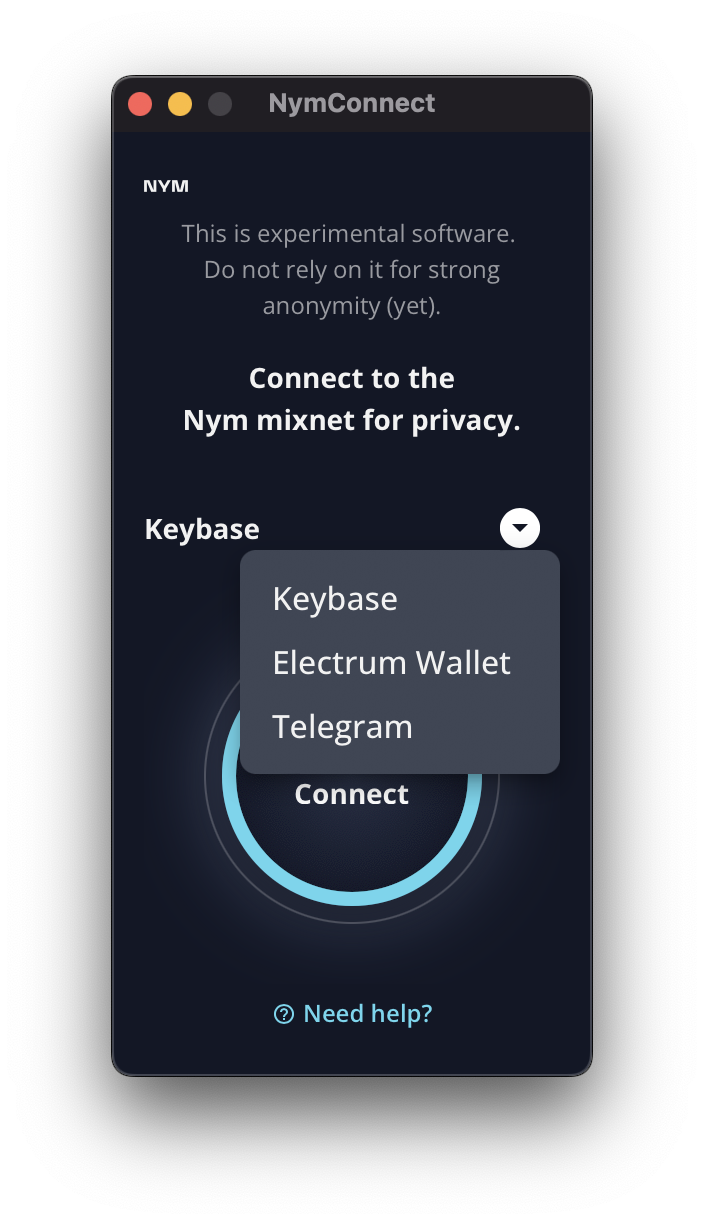
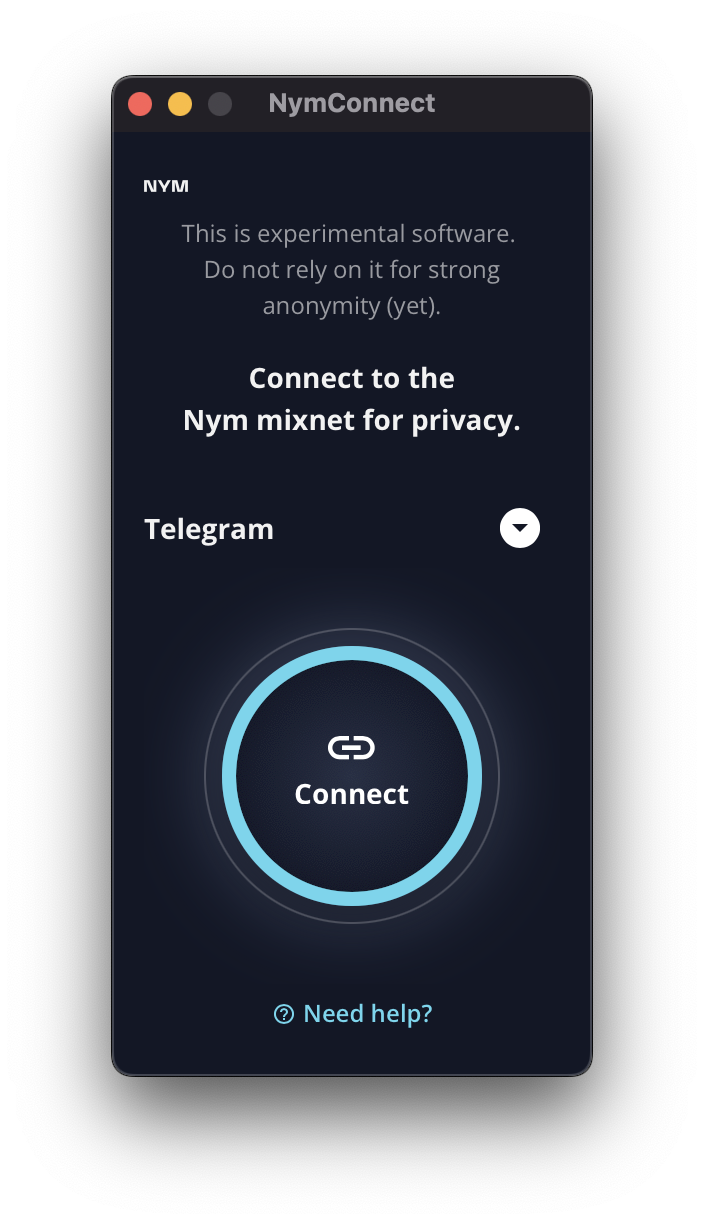
docs(quickstart): update quickstart guides

Changed region(s): [[0.1875, 0.4036, 0.8125, 0.652]]

diff --git a/versioned_docs/version-stable/quickstart/nym-connect.md b/versioned_docs/version-stable/quickstart/nym-connect.md
@@ -4,19 +4,92 @@ description: "Nym is a blockchain-based privacy platform. It provides strong net
 hide_title: false
 ---
 
+import useBaseUrl from '@docusaurus/useBaseUrl';
+import ThemedImage from '@theme/ThemedImage';
+
 # Nym Connect
 
-Follow this guide to install and run Nym connect.
+Nym Connect app lets you send traffic through Nym mixnet for supported applications.
 
-### Step 1. Download
+You can download it for Mac, Windows or Linux PCs.
 
-Get the latest release of nym connect app [here](https://github.com/nymtech/nym/releases/tag/nym-connect-v1.0.2).
+[Download Nym Connect](https://github.com/nymtech/nym/releases/tag/nym-connect-v1.0.2)
 
-:::note
-Nym connect build for linux currently supports only **debian**. If you wish to run on another distro that is not debian, you'll need to build from source. To build from source, you'll also need a [Developer ID Application](https://developer.apple.com/support/developer-id/).
+### Bypassing security warnings
+
+On Windows you will see a security warning pop up when you attempt to run Nym connect. We are in the process of getting app store keys from Microsoft so that this doesn't happen. See the section below for details on steps to bypass these.
+
+#### Linux
+
+You will need to `chmod +x` the AppImage in the terminal (or give it execute permission in your file browser) before it will run.
+
+#### Mac OS
+
+After downloading, double click or drag to your applications directory and right click to select open.
+
+<ThemedImage
+alt=""
+sources={{
+    light: useBaseUrl('/img/docs/nym-mac-install-drag.png'),
+    dark: useBaseUrl('/img/docs/nym-mac-install-drag.png'),
+  }}
+/>
+
+Drag Nym Connect to your applications icons then on your iFinder, search and open Nym Connect. You might run into this error just click Open to continue.
+
+<ThemedImage
+alt=""
+sources={{
+    light: useBaseUrl('/img/docs/nym-mac-warning.png'),
+    dark: useBaseUrl('/img/docs/nym-mac-warning.png'),
+  }}
+/>
+
+<ThemedImage
+alt=""
+sources={{
+    light: useBaseUrl('/img/docs/nym-connect-app.png'),
+    dark: useBaseUrl('/img/docs/nym-connect-app.png'),
+  }}
+/>
+
+Select any of the supported services and hit the big connect button to start the proxy. Once you've done this, you can go to the application and add your proxy address to start using the application and pushing traffic through Nym mixnet.
+
+![Nym connect app](/img/docs/keybase-demo.gif)
+
+### Building from source
+
+:::info
+Please note that Nym Connect has currently only been built on the operating systems for Mac OS, Debian and Windows. If you find an issue or any additional prerequisties, please create an issue or PR against `develop` on [Github](https://github.com/nymtech/docs).
 :::
 
-#### Building from source
+### Software prerequisites for building Nym Connect
+
+- `git`
+
+```
+sudo apt update
+sudo apt install git
+```
+
+Verify `git` is installed with:
+
+```
+git version
+# Should return: git version X.Y.Z
+```
+
+- [Yarn](https://yarnpkg.com/)
+
+- `NodeJS >= v16.8.0`
+
+- `Rust & cargo >= v1.56`
+
+We recommend using the [Rust shell script installer](https://www.rust-lang.org/tools/install). Installing cargo from your package manager (e.g. `apt`) is not recommended as the packaged versions are usually too old.
+
+If you really don't want to use the shell script installer, the [Rust installation docs](https://forge.rust-lang.org/infra/other-installation-methods.html) contain instructions for many platforms.
+
+### Download Nym Connect
 
 ```
 rustup update
@@ -24,22 +97,90 @@ git clone https://github.com/nymtech/nym.git
 git reset --hard # in case you made any changes on your branch
 git pull # in case you've checked it out before
 cd nym/nym-connect # navigate into nym-connect directory
-yarn  # this command will install all related dependencies
-yarn build # since this is rust related project, this command will compile build both rust and typescript parts of nym-connect
-
-cd target/release # path to nym connect
-./nym-connect # to start nym connect
 ```
 
-### Step 2. Run
+### Removing signing errors when building in development mode
 
-After installation, proceed to running the app and select the service you wish to run.
-![Nym connect app](/img/docs/nym-connect-app.png)
+If you're wanting to build Nym connect yourself, you will need to make a few modifications to the file located at `nym-connect/src-tauri/tauri.conf.json` before doing so. These relate to Nym connect being accepted by Mac and Windows app stores, and so aren't relevant to you when building and running Nym connect yourself.
 
-### Step 3. Connect
+On **all** operating systems:
 
-Hit the big connect button to start the proxy.
+- set the value of line 49 to `false`
+- remove lines 50 to 54
 
-### Step 4. Proxy setting
+As well as these modifications for MacOS and Windows users:
 
-Now proceed to the service you selected. On the proxy section of the app, add the Sock5 Proxy address and port number provided to you on Nym connect and you can proceed to use the application with privacy guaranteed.
+- MacOS users must also remove line 39
+- Windows users must remove lines 42 to 46
+
+### Installation
+
+Once you have made these modifications to `tauri.conf.json`, inside of the `nym-connect` folder, run:
+
+```
+yarn install
+```
+
+### Building
+
+To build and install Nym connect, run the following terminal command from the `nym-connect` folder
+
+```
+yarn build
+```
+
+### Running in Development Mode
+
+:::note
+Make sure you copy over the contents of the provided `.env.sample` to a new `.env` file before proceeding
+:::
+
+You can run Nym connect without having to install it in development mode by running the following terminal command from the `nym-connect` folder
+
+```
+yarn dev
+```
+
+This will then start Nym Connect UI and produce a binary in `nym-connect/target/debug/` named `nym-connect`.
+
+### Running in Production Mode
+
+:::note
+Make sure you copy over the contents of the provided `.env.sample` to a new `.env` file before proceeding
+:::
+
+To build and install Nym connect, run the following terminal command from the `nym-connect` folder
+
+```
+yarn build
+```
+
+This will build an executable file that you can use to install Nym Connect on your machine. The output will compile different types of binaries dependent on your hardware / OS system. Once the binaries are built, they can be located as follows:
+
+```
+Binary output directory structure
+**macos**
+|
+└─── target/release
+|   |─ nym-connect
+└───target/release/bundle/dmg
+│   │─ bundle_dmg.sh
+│   │─ nym-connect.*.dmg
+└───target/release/bundle/macos/MacOs
+│   │─ nym-connect
+|
+**Linux**
+└─── target/release
+|   │─  nym-connect
+└───target/release/bundle/appimage
+│   │─  nym-connect_*_.AppImage
+│   │─  build_appimage.sh
+└───target/release/bundle/deb
+│   │─  nym-connect_*_.deb
+|
+**Windows**
+└─── target/release
+|   │─  nym-conenct.exe
+└───target/release/bundle/msi
+│   │─  nym-connect_*_.msi
+```

diff --git a/versioned_docs/version-stable/quickstart/sock5.md b/versioned_docs/version-stable/quickstart/sock5.md
@@ -6,8 +6,122 @@ hide_title: false
 
 # Nym Sock5 Proxy
 
-Nym Sock5 Proxy allows existing applications to connect and use Nym mixnet for increased network privacy.
+Nym Sock5 Proxy allows existing applications to connect and use Nym mixnet for increased network privacy. Presently available on mac, windows and linux.
 
-### Step 1. Download
+[Download Nym Socks5 client](https://github.com/nymtech/nym/releases/download/nym-binaries-1.0.2/nym-socks5-client)
 
-Download the latest release of Nym sock5 proxy [here](https://github.com/nymtech/nym/releases/tag/nym-binaries-1.0.2).
+:::info
+Please note that Nym Sock5 Proxy has currently only been built on the operating systems for mac, Debian and Windows. If you find an issue or any additional prerequisties, please create an issue or PR against `develop` on [Github](https://github.com/nymtech/docs).
+:::
+
+### Building from source
+
+### Prerequisites
+
+- (Debian/Ubuntu) `pkg-config`, `build-essential`, `libssl-dev`, `curl`, `jq`
+
+```
+sudo apt update
+sudo apt install pkg-config build-essential libssl-dev curl jq
+```
+
+- `Rust & cargo >= v1.56`
+
+We recommend using the [Rust shell script installer](https://www.rust-lang.org/tools/install). Installing cargo from your package manager (e.g. `apt`) is not recommended as the packaged versions are usually too old.
+
+If you really don't want to use the shell script installer, the [Rust installation docs](https://forge.rust-lang.org/infra/other-installation-methods.html) contain instructions for many platforms.
+
+### Download and build Nym binaries
+
+The following commands will compile binaries into the `nym/target/release` directory:
+
+```
+rustup update
+git clone https://github.com/nymtech/nym.git
+cd nym
+git reset --hard # in case you made any changes on your branch
+git pull # in case you've checked it out before
+
+# Note: the default branch you clone from Github, `develop`, may be
+# incompatible with both the mainnet and testnet. As such, make sure
+# to checkout the current release:
+git checkout tags/nym-binaries-1.0.2 # git commit c7fdcf0a79d7adfe45e879f152a90e6fa0bfc29e
+
+# this builds your binaries with mainnet configuration
+cargo build --release
+# to build your binaries with Sandbox testnet configuration, run this instead:
+NETWORK=sandbox cargo build --release
+```
+
+### Verify setup
+
+You can check that your binaries are properly compiled with:
+
+```
+./nym-socks5-client --help
+```
+
+<details>
+  <summary>console output</summary>
+
+        Nym Socks5 Proxy 1.0.2
+        Nymtech
+        A Socks5 localhost proxy that converts incoming messages to Sphinx and sends them to a Nym address
+
+        USAGE:
+            nym-socks5-client [SUBCOMMAND]
+
+        FLAGS:
+            -h, --help       Prints help information
+            -V, --version    Prints version information
+
+        SUBCOMMANDS:
+            help       Prints this message or the help of the given subcommand(s)
+            init       Initialise a Nym client. Do this first!
+            run        Run the Nym client with provided configuration client optionally overriding set parameters
+            upgrade    Try to upgrade the client
+
+</details>
+
+### Initialising a new client instance
+
+Before you can use the client, you need to initalise a new instance of it, which can be done with the following command:
+
+```
+nym-socks5-client init --id <id> --provider <provider>
+```
+
+The `--id` in the example above is a local identifier so that you can name your clients; it is **never** transmitted over the network.
+
+The `--provider` field needs to be filled with the Nym address of a Network Requester that can make network requests on your behalf. If you can't find one from the community, you'll have to [run your own](/docs/stable/run-nym-nodes/nodes/requester/). A nicer way of discovering public Service Providers is incoming, but at the moment just ask around in community channels and someone will give you an address to use.
+
+### Running the socks5 client
+
+You can run the initalised client by doing this:
+
+```
+nym-socks5-client run --id <id>
+```
+
+<details>
+  <summary>console output</summary>
+
+        2022-04-27T16:15:45.843Z INFO  nym_socks5_client::client > Starting nym client
+        2022-04-27T16:15:45.889Z INFO  nym_socks5_client::client > Obtaining initial network topology
+        2022-04-27T16:15:51.470Z INFO  nym_socks5_client::client > Starting topology refresher...
+        2022-04-27T16:15:51.470Z INFO  nym_socks5_client::client > Starting received messages buffer controller...
+        2022-04-27T16:15:51.648Z INFO  gateway_client::client    > Claiming more bandwidth for your tokens. This will use 1 token(s) from your wallet. Stop the process now if you don't want that to happen.
+        2022-04-27T16:15:51.648Z WARN  gateway_client::client    > Not enough bandwidth. Trying to get more bandwidth, this might take a while
+        2022-04-27T16:15:51.648Z INFO  gateway_client::client    > The client is running in disabled credentials mode - attempting to claim bandwidth without a credential
+        2022-04-27T16:15:51.706Z INFO  nym_socks5_client::client > Starting mix traffic controller...
+        2022-04-27T16:15:51.706Z INFO  nym_socks5_client::client > Starting real traffic stream...
+        2022-04-27T16:15:51.706Z INFO  nym_socks5_client::client > Starting loop cover traffic stream...
+        2022-04-27T16:15:51.707Z INFO  nym_socks5_client::client > Starting socks5 listener...
+        2022-04-27T16:15:51.707Z INFO  nym_socks5_client::socks::server > Listening on 127.0.0.1:1080
+        2022-04-27T16:15:51.707Z INFO  nym_socks5_client::client        > Client startup finished!
+        2022-04-27T16:15:51.707Z INFO  nym_socks5_client::client        > The address of this client is: BFKhbyNsSVwbsGSLwHDkfwH5mwZqZYpnpNjjV7Xo25Xc.EFWd1geWspzyVeinwXrY5fCBMRtAKV1QmK1CNFhAA8VG@BNjYZPxzcJwczXHHgBxCAyVJKxN6LPteDRrKapxWmexv
+        2022-04-27T16:15:51.707Z INFO  nym_socks5_client::socks::server > Serving Connections...
+
+</details>
+
+![Nym connect app](/img/docs/keybase-settings.gif)

diff --git a/versioned_docs/version-stable/developers/develop-with-nym/socks5-client.md b/versioned_docs/version-stable/developers/develop-with-nym/socks5-client.md
@@ -9,7 +9,6 @@ title: Socks5 Client
 The Nym Socks5 Client was built in the [building nym](/docs/stable/run-nym-nodes/build-nym/) section. If you haven't yet built Nym and want to run the code on this page, go there first.
 :::
 
-
 ### Viewing command help
 
 You can check that your binaries are properly compiled with:
@@ -38,13 +37,12 @@ You can check that your binaries are properly compiled with:
             run        Run the Nym client with provided configuration client optionally overriding set parameters
             upgrade    Try to upgrade the client
 
-    
 </details>
 
 You can check the necessary parameters for the available commands by running:
 
 ```
-./nym-client <command> --help 
+./nym-client <command> --help
 ```
 
 ### Initialising a new client instance
@@ -57,8 +55,7 @@ nym-socks5-client init --id <id> --provider <provider>
 
 The `--id` in the example above is a local identifier so that you can name your clients; it is **never** transmitted over the network.
 
-The `--provider` field needs to be filled with the Nym address of a Network Requester that can make network requests on your behalf. If you can't find one from the community, you'll have to [run your own](/docs/stable/run-nym-nodes/nodes/requester/). A nicer way of discovering public Service Providers is incoming, but at the moment just ask around in community channels and someone will give you an address to use. 
-
+The `--provider` field needs to be filled with the Nym address of a Network Requester that can make network requests on your behalf. If you can't find one from the community, you'll have to [run your own](/docs/stable/run-nym-nodes/nodes/requester/). A nicer way of discovering public Service Providers is incoming, but at the moment just ask around in community channels and someone will give you an address to use.
 
 ### Running the socks5 client
 
@@ -71,7 +68,6 @@ nym-socks5-client run --id <id>
 <details>
   <summary>console output</summary>
 
-    
         2022-04-27T16:15:45.843Z INFO  nym_socks5_client::client > Starting nym client
         2022-04-27T16:15:45.889Z INFO  nym_socks5_client::client > Obtaining initial network topology
         2022-04-27T16:15:51.470Z INFO  nym_socks5_client::client > Starting topology refresher...
@@ -90,10 +86,8 @@ nym-socks5-client run --id <id>
 
 </details>
 
-
-
 ### Using the socks5 client
 
-This will start up a SOCKS5 proxy on your local machine, at `localhost:1080`. You can now route application traffic through the Nym mixnet! 
+This will start up a SOCKS5 proxy on your local machine, at `localhost:1080`. You can now route application traffic through the Nym mixnet!
 
-To have a look at examples of how to attach some existing applications to your client, please see the [Use External Apps](/docs/stable/use-external-apps/) section. 
+To have a look at examples of how to attach some existing applications to your client, please see the [Use External Apps](/docs/stable/use-external-apps/) section.

diff --git a/versioned_docs/version-stable/quickstart/introduction.md b/versioned_docs/version-stable/quickstart/introduction.md
@@ -10,9 +10,9 @@ Presently, there are two ways to use the Nym mixnet for improved privacy on your
 
 ### Nym Connect
 
-Nym Connect is a one-button interface that is easy to use. With Nym connect, you get 100% privacy on applications you use everyday. Presently, Nym connect has support for telegram, keybase and electrum wallets. This means that you can run sock5 proxy on these applications with Nym connect. More services coming soon.
+Nym Connect is a one-button interface that is easy to use. Presently Nym Connect allows you to send traffic for supported applications through the mixnet, shielding your metadata from the wider internet. NymConnect currently offers support for Telegram, Keybase, and the Electrum Bitcoin wallet. More services will be added soon.
 
-**Nym connect is still in experimental stage. If buggy please send us a [feedback report](https://dyno.gg/form/bbec84eb)**
+**Nym connect is still in experimental stage. If you experience problems or bugs, please send use a feedback [here](https://dyno.gg/form/bbec84eb)**.
 
 ### Nym Sock5
 
